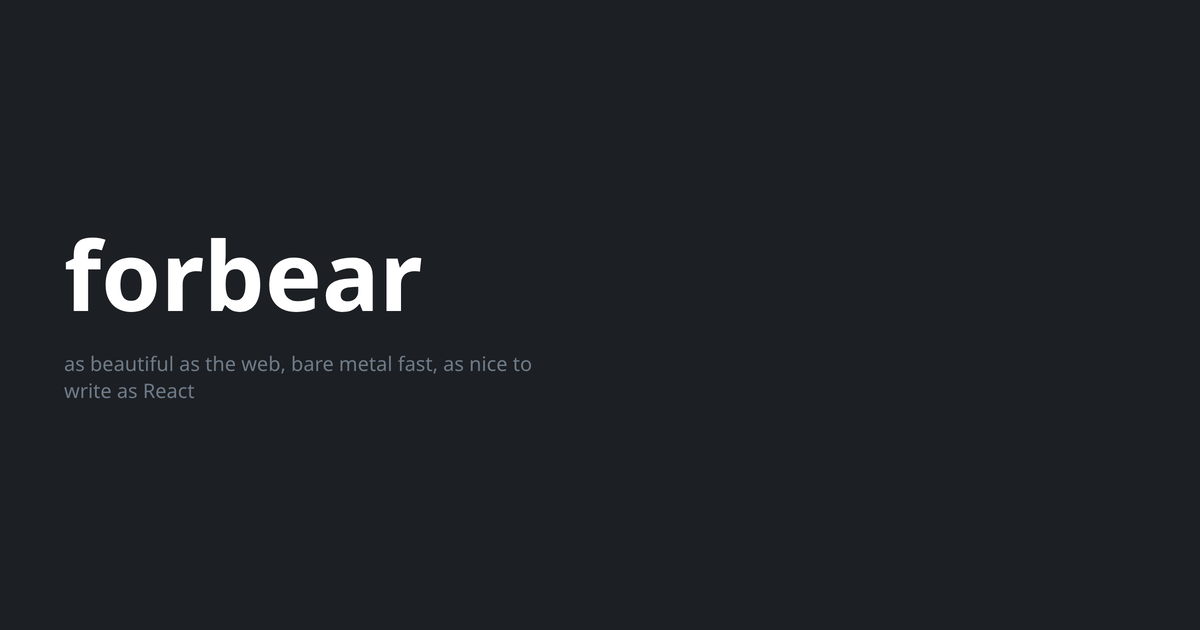
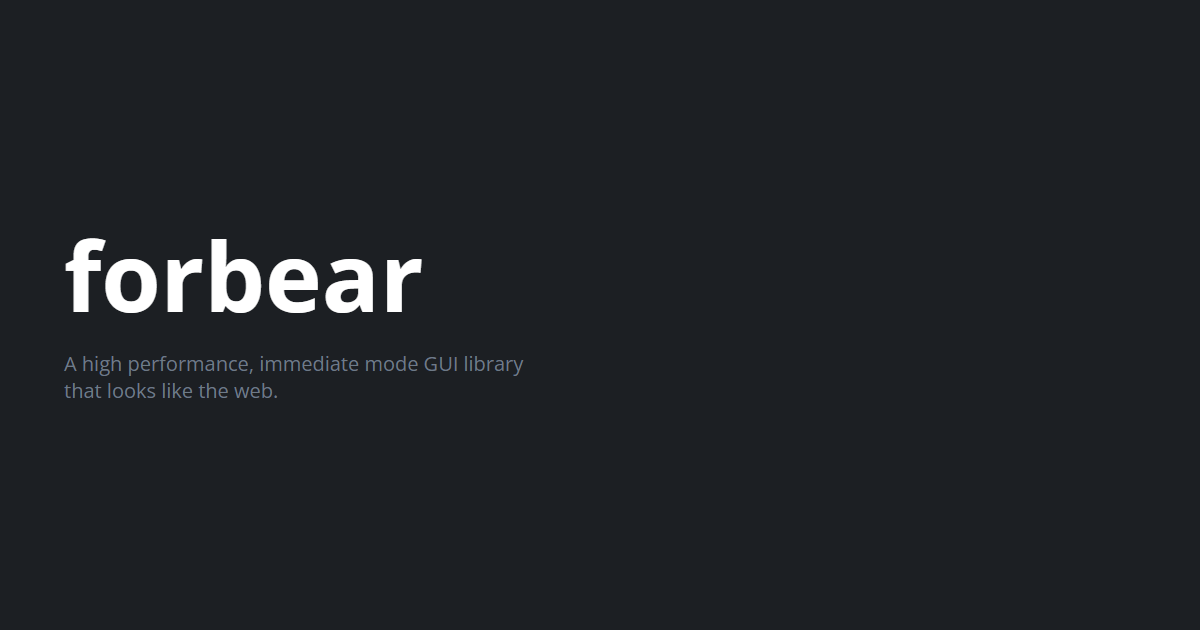
update tagline and readme

diff --git a/www/index.html b/www/index.html
@@ -4,19 +4,19 @@
 <meta charset="utf-8">
 <meta name="viewport" content="width=device-width, initial-scale=1">
 <title>forbear</title>
-<meta name="description" content="as beautiful as the web, bare metal fast, as nice to write as React">
+<meta name="description" content="A high performance, immediate mode GUI library that looks like the web.">
 <meta property="og:type" content="website">
 <meta property="og:site_name" content="forbear">
 <meta property="og:url" content="https://www.forbear.dev/">
 <link rel="alternate" type="application/atom+xml" title="forbear log" href="/feed.xml">
 <meta property="og:title" content="forbear">
-<meta property="og:description" content="as beautiful as the web, bare metal fast, as nice to write as React">
+<meta property="og:description" content="A high performance, immediate mode GUI library that looks like the web.">
 <meta property="og:image" content="https://www.forbear.dev/assets/og-index.png">
 <meta property="og:image:width" content="1200">
 <meta property="og:image:height" content="630">
 <meta name="twitter:card" content="summary_large_image">
 <meta name="twitter:title" content="forbear">
-<meta name="twitter:description" content="as beautiful as the web, bare metal fast, as nice to write as React">
+<meta name="twitter:description" content="A high performance, immediate mode GUI library that looks like the web.">
 <meta name="twitter:image" content="https://www.forbear.dev/assets/og-index.png">
 <script src="https://cdn.jsdelivr.net/npm/@tailwindcss/browser@4"></script>
 <style type="text/tailwindcss">
@@ -47,7 +47,7 @@
 <main class="max-w-2xl mx-auto px-4 py-16">
 <h1>forbear</h1>
 
-<p>forbear is a GUI framework: as beautiful as the web, bare metal fast, as nice to write as React.</p>
+<p>forbear is a high performance, immediate mode GUI library that looks like the web.</p>
 
 <p><a href="https://github.com/gabrielmfern/forbear">https://github.com/gabrielmfern/forbear</a></p>
 

diff --git a/www/og/index.html b/www/og/index.html
@@ -17,7 +17,7 @@
 <div id="og" class="relative w-[1200px] h-[630px] overflow-hidden bg-bg">
   <div class="absolute left-16 top-0 bottom-0 w-[470px] flex flex-col justify-center gap-6">
     <h1 class="text-[96px] leading-[1.05] font-bold text-bright">forbear</h1>
-    <p class="text-xl leading-snug text-muted">as beautiful as the web, bare metal fast, as nice to write as React</p>
+    <p class="text-xl leading-snug text-muted">A high performance, immediate mode GUI library that looks like the web.</p>
   </div>
 </div>
 </body>

diff --git a/README.md b/README.md
@@ -1,6 +1,8 @@
 # forbear
 
-forbear is a GUI library meant to be what operating systems should have given us. A high performance, handmade, cross-language immediate mode GUI library.
+forbear is a high performance, immediate mode GUI library that looks like the web.
+
+Major features:
 - React-like declarative elements, components and hooks;
 - JSX bindings;
 - easily embeddable and customizable;
@@ -34,15 +36,9 @@ jai main.jai +forbear
 
 ```jai
 Counter :: () {
-    // This gives us back a pointer to the counter's value. Since no initial value
-    // is defined, the function just zeroes out the given type.
-    //
     // State is stored in a 16MB static buffer with no heap allocations.
     counter := state(s64);
 
-    // `text` defines a node with glyphs inside of it. It inherits style from its parent.
-    text("PLUS (+): increases the counter by one");
-    text("MINUS (-): decreases the counter by one");
     if on_key_down(.PLUS) {
         // Since this is immediate mode, there's no need for callbacks/event handlers,
         // we can simply check for the key being down through an if-statement.
@@ -51,9 +47,8 @@ Counter :: () {
         counter.* -= 1;
     }
 
-    text("LEFT CLICK in the button: increases the counter by one");
-    text("RIGHT CLICK in the button: decreases the counter by one");
     element(Style.{
+        // styling familiar to HTML
         background = color(rgb(44, 49, 56)),
         color = rgb(230, 234, 239),
         border_width = all(1),
@@ -61,7 +56,8 @@ Counter :: () {
         border_radius = 6,
         padding = in_line(block(8), 16),
         margin = block(8),
-    }, #code {
+    }, #code { // The children of an element are defined through passing
+               // around Code by the `#code` directive.
         node := get_node();
         if is_mouse_inside() {
             node.style.background = color(rgb(56, 62, 71));
@@ -70,8 +66,6 @@ Counter :: () {
             }
         }
 
-        // The children of an element are defined through passing
-        // around Code by the `#code` directive.
         text("Click me");
 
         if on_click(.LEFT) {
@@ -83,19 +77,17 @@ Counter :: () {
 
     text(Style.{font_size = 32}, sprint("Count: %", counter.*));
 } @component
-  // The `@component` is handled by a compiler plugin that's defined in the
-  // `forbear.jai` as well. It goes through all calls of functions with this
-  // annotation and wraps them in a `scope(#code ...)` which makes these handle
-  // state properly.
 ```
 
 ## Why?
 
-Among all current GUI framework options there seems to always be a trade-off between: beautiful, flexible, bare metal fast and DX.
-The most famous pick for established programs people use every day is Electron. And Electron also picks its trade-off to not be bare metal fast.
+Among all current GUI framework options there seems to always be a trade-off between: beauty, performance and developer experience. The most famous pick for established programs people use every day is Electron. Electron is famous for not having great performance and hogging way too many resources.
 
-forbear is meant to change this. forbear is meant to be the UI library that a proper operating system should have provided. The idea of it is
-also to bring forth the possibility of defining UIs through any language you might already be familiar with.
+We have a vision of a world where, just like Electron programs are widespread, we have programs that use minimal resources, open and close instantly, run using the hardware effectively wide spread.
+
+To reach this vision of the future, I believe there's the need for an ease of development that has never gotten to before for UI libraries. Something that operating systems should have provided us from the beginning.
+
+This is why forbear exists, it's meant to fuse the best of all worlds and make it accessible to all. High performance shouldn't be for only those who can bear the weight of extreme complexity, and beautiful UIs shouldn't be for only those who compromise for subpar performance.
 
 ## License
 
@@ -112,14 +104,16 @@ There are two reasons for this kind of licensing:
 
 ## Roadmap
 
-Beware forbear has been in heavy development since early 2025. The roadmap of the near future is:
+Beware forbear has been in heavy development since early 2025 and the API that is established in the code will most likely change.
+
+The roadmap for the near future is:
 - C ABI and C bindings.
 - Async API that works with the immediate mode nature of the library and the different adapters.
 - Complete Wayland and macOS windowing.
 - Metal rendering on macOS.
-- Native font rendering through FreeType, DirectWrite and CoreText.
+- Native font rendering through dynamically linked FreeType, DirectWrite and CoreText.
 
-For more of the planned work, see [TODO.txt](./TODO.txt).
+For more details, see [TODO.txt](./TODO.txt).
 
 ---
 
